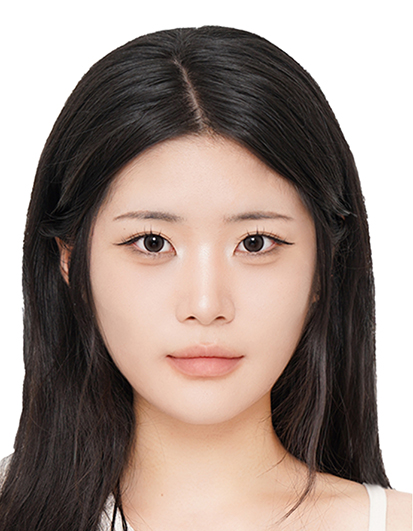
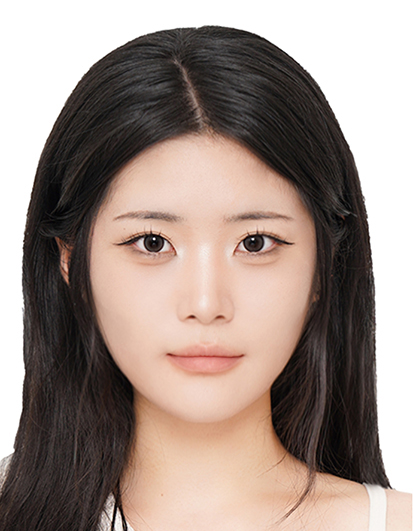
update

diff --git a/index.html b/index.html
@@ -5,7 +5,7 @@
     <meta charset="UTF-8">
     <meta name="viewport" content="width=device-width, initial-scale=1.0">
 
-    <title>dbr-edu 포트폴리오</title>
+    <title>포트폴리오</title>
     <link rel="stylesheet" href="css/index.css">
     <link rel="preconnect" href="https://fonts.googleapis.com">
     <link href="https://fonts.googleapis.com/css2?family=Pretendard:wght@300;400;500;600;700&display=swap"
